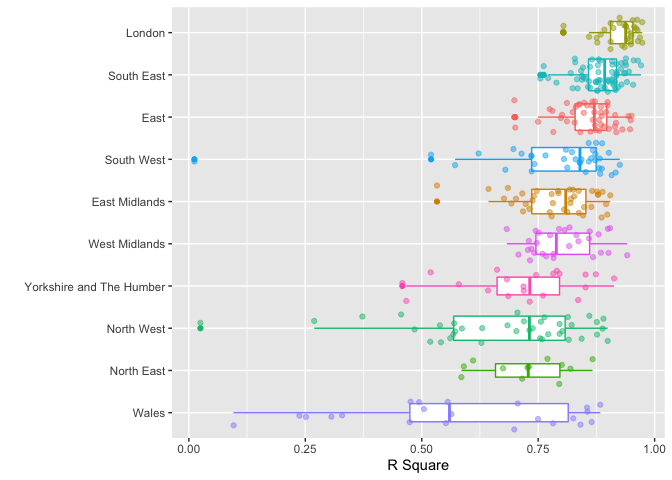
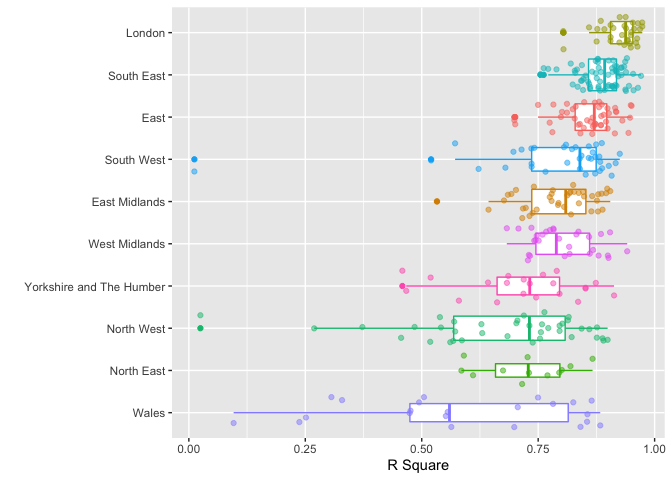
Updated analysis

diff --git a/README.md b/README.md
@@ -13,8 +13,8 @@ More information on this approach can be found here:
 ## How have house prices in England and Wales changed since 2008?
 
 Data on median property prices in England and Wales is published
-quarterly by the Office for National Statistics, using data from the
-Land Registry. It is available here:
+quarterly by the UK’s Office for National Statistics, using data from
+the Land Registry. It is available here:
 <https://www.ons.gov.uk/peoplepopulationandcommunity/housing/datasets/medianhousepricefornationalandsubnationalgeographiesquarterlyrollingyearhpssadataset09>
 
 The Excel document contains house prices for different administrative
@@ -97,10 +97,10 @@ key takeaways - so we need to find a way of summarising the data.
 
 ## Fitting a (simple) model
 
-One way of digging deeper is to fit a model that captures the general
-trend in the data. Since what we’re interested in is how house prices
-have changed since 2008, we should try to fit a model that can capture
-the variation over time. It would also be interesting to look at whether
+One way of summarising the data is to fit a model that captures the
+general trend. Since what we’re interested in is how house prices have
+changed since 2008, we should try to fit a model that can capture the
+variation over time. It would also be interesting to look at whether
 local authorities that are close together have experienced similar
 trends in house price changes.
 
@@ -134,8 +134,8 @@ approach scales to c. 350 local authorities.
 
 We’ll use the nested dataframe workflow to split our data into separate
 datasets - one for each local authority. We’ll then fit the same linear
-regression model to each one, and then calculate a couple of summary
-measures to compare the quality and findings of the model.
+regression model to each one, and calculate a couple of summary measures
+to compare the quality and findings of the model.
 
 Note that for this model we’ll log transform the median prices to base
 2. This flattens out some of the variation in the prices data, and means
@@ -150,25 +150,29 @@ library(scales)
 house_prices_model <- house_prices %>% 
   mutate(year_since_08 = year-2008) %>% 
   group_by(region_country_name, local_authority_name, local_authority_name) %>% 
-  nest() %>% 
-  mutate(price_model = map(data, ~ lm(log2(.$median_price) ~ .$year_since_08, data = .))) %>% 
+  nest() %>%  
+  ungroup() %>% 
+  mutate(price_model = map(data, 
+                           ~ lm(log2(.$median_price) ~ .$year_since_08, data = .))) %>% 
   mutate(model_summary = map(price_model, glance), 
          tidy_model = map(price_model, tidy)) 
 ```
 
 ## How good are the models?
 
-We’ll use R squared to assess how good our models are. An R squared of 1
-indicates a perfect fit, while 0 indicates a very poor fit and a model
-with no explanatory power.
+We’ll use R squared to assess how good our models are. Broadly, an R
+squared of 1 indicates a perfect fit, while 0 indicates a very poor fit
+and a model with no explanatory power.
 
 ``` r
 model_summary <- house_prices_model %>% 
-  unnest(model_summary, .drop = TRUE) %>% 
+  unnest(model_summary) %>% 
+  select(-data, -price_model) %>% 
   janitor::clean_names() 
 
 model_summary %>% 
-  ggplot(aes(fct_reorder(region_country_name, r_squared), r_squared, col = region_country_name)) +
+  ggplot(aes(fct_reorder(region_country_name, r_squared), 
+             r_squared, col = region_country_name)) +
   geom_boxplot(outlier.shape = NULL, varwidth = TRUE) + 
   geom_jitter(alpha = 0.5) + 
   coord_flip() +
@@ -184,7 +188,7 @@ fit is likely to look like the graph for Ealing above.
 
 We can visualise what higher levels of R square indicate in terms of
 trends in the data. Below, we’ve ‘cut’ r squared into 5 equally-spaced
-bins. We can see that areas with higher levels of R square have seen
+groups. We can see that areas with higher levels of R square have seen
 faster rates of house price growth. In locations where R squared is very
 low, house prices have barely moved at all or have been very volatile.
 
@@ -210,8 +214,6 @@ prices have changed since 2008 in different parts of England and Wales.
 The transformed coefficients of our model (see code below) can be
 interpreted as estimated annual % change in house prices since 2008.
 
-The two scatter plots show the results.
-
 ``` r
 model_tidy <- house_prices_model %>% 
   unnest(tidy_model, .drop = TRUE) %>% 
@@ -222,6 +224,11 @@ model_tidy <- house_prices_model %>%
   mutate(year_since_08 = year_since_08-1) %>% 
   inner_join(model_summary)
 ```
+
+    ## Warning: The `.drop` argument of `unnest()` is deprecated as of tidyr 1.0.0.
+    ## All list-columns are now preserved.
+    ## This warning is displayed once per session.
+    ## Call `lifecycle::last_warnings()` to see where this warning was generated.
 
     ## Joining, by = c("region_country_name", "local_authority_name")
 
@@ -236,24 +243,35 @@ model_tidy %>%
 
 ![](README_files/figure-gfm/unnamed-chunk-7-1.png)<!-- -->
 
+Here, we can see that locations in London, the East and the East
+Midlands have seen the biggest increases to house prices. The model fit
+in these locations, as measured by R squared, is also very high.
+
+We can visualise what this means in practise by adding the predictions
+back into the data. As we can see below, the predicted values for Tower
+Hamlets (a borough in East London) closely track the median house
+prices.
+
 ``` r
 model_tidy %>% 
-  mutate(region_country_name = fct_reorder(region_country_name, -year_since_08, .fun = median)) %>% 
-  ggplot(aes(r_squared, year_since_08, fill = region_country_name)) + 
-  geom_point(shape = 21, alpha = 0.5) + 
-  scale_y_continuous(labels = percent) + 
-  facet_wrap(~region_country_name) + 
-  labs(x = "R square", y = "Estimated annual increases in house prices (%)") + 
-  theme(legend.position = "none")
+  filter(local_authority_name == "Tower Hamlets") %>% 
+  select(local_authority_name, data, price_model) %>% 
+  mutate(predictions = map2(data, price_model, add_predictions, var = "price_pred")) %>% 
+  unnest(predictions) %>% 
+  mutate(price_pred = 2 ^ price_pred) %>% 
+  ggplot(aes(year, price_pred)) +
+  geom_line(col = "blue", linetype = "dashed") + 
+  geom_point(aes(y = median_price)) +
+  scale_y_continuous(labels = dollar_format(prefix = "£")) +
+  scale_x_continuous(breaks = seq(2008, 2018, 2)) + 
+  labs(x = "", y = "", 
+       title = "Actual and predicted median house prices in Tower Hamlets, 2008 - 2018")
 ```
 
-![](README_files/figure-gfm/unnamed-chunk-7-2.png)<!-- -->
+![](README_files/figure-gfm/unnamed-chunk-8-1.png)<!-- -->
 
-On the first plot, we can see that locations in London, the East and the
-East Midlands have seen the biggest increases to house prices. The model
-fit in these locations, as measured by R squared, is also very high.
-
-On the second plot we can dig deeper. What we see is that almost
+We can dig deeper into the variation in model performance by region by
+faceting our earlier visualisation. Below, we can see that almost
 everywhere in London has experienced more than 6% annual increases in
 house prices since 2008, while in the East and South East more than half
 of locations have experienced more than 5% annual increases. Most
@@ -263,11 +281,26 @@ East and Wales, the coefficients are lower and model performance worse -
 likely indicating that house price growth has been slower or more
 volatile.
 
-We can see what this means if in Wales if we pull-out some of the ‘best’
-and ‘worst’ fitting locations. While the best fitting locations have
-undoubtedly seen slower growth and those in London and the South East,
-they have seen some growth. However, areas where the model fits badly
-have seen almost no growth in house prices over the last decade.
+``` r
+model_tidy %>% 
+  mutate(region_country_name = 
+           fct_reorder(region_country_name, -year_since_08, .fun = median)) %>% 
+  ggplot(aes(r_squared, year_since_08, fill = region_country_name)) + 
+  geom_point(shape = 21, alpha = 0.5) + 
+  scale_y_continuous(labels = percent) + 
+  facet_wrap(~region_country_name, nrow = 2) + 
+  labs(x = "R square", y = "Estimated annual increases in house prices (%)") + 
+  theme(legend.position = "none")
+```
+
+![](README_files/figure-gfm/unnamed-chunk-9-1.png)<!-- -->
+
+We can examine the differences in performance within Wales if we
+pull-out some of the ‘best’ and ‘worst’ fitting locations. While the
+best fitting locations have undoubtedly seen slower growth than those in
+London and the South East, they have seen some growth. However, areas
+where the model fits badly have seen almost no growth in house prices
+over the last decade.
 
 ``` r
 wales_best <- model_tidy %>% 
@@ -281,7 +314,15 @@ wales_worst <- model_tidy %>%
   tail(5)
 
 wales_modlels <- bind_rows(list("best" = wales_best, "worst" = wales_worst), .id = "fit_quality")
+```
 
+    ## Warning in bind_rows_(x, .id): Vectorizing 'vctrs_list_of' elements may not
+    ## preserve their attributes
+    
+    ## Warning in bind_rows_(x, .id): Vectorizing 'vctrs_list_of' elements may not
+    ## preserve their attributes
+
+``` r
 house_prices %>% 
   inner_join(wales_modlels) %>% 
   ggplot(aes(year, median_price)) + 
@@ -294,7 +335,7 @@ house_prices %>%
   theme(legend.position = "none")
 ```
 
-![](README_files/figure-gfm/unnamed-chunk-8-1.png)<!-- -->
+![](README_files/figure-gfm/unnamed-chunk-10-1.png)<!-- -->
 
 ``` r
 house_prices %>% 
@@ -314,4 +355,4 @@ house_prices %>%
   theme(legend.position = "none")
 ```
 
-![](README_files/figure-gfm/unnamed-chunk-8-2.png)<!-- -->
+![](README_files/figure-gfm/unnamed-chunk-10-2.png)<!-- -->
